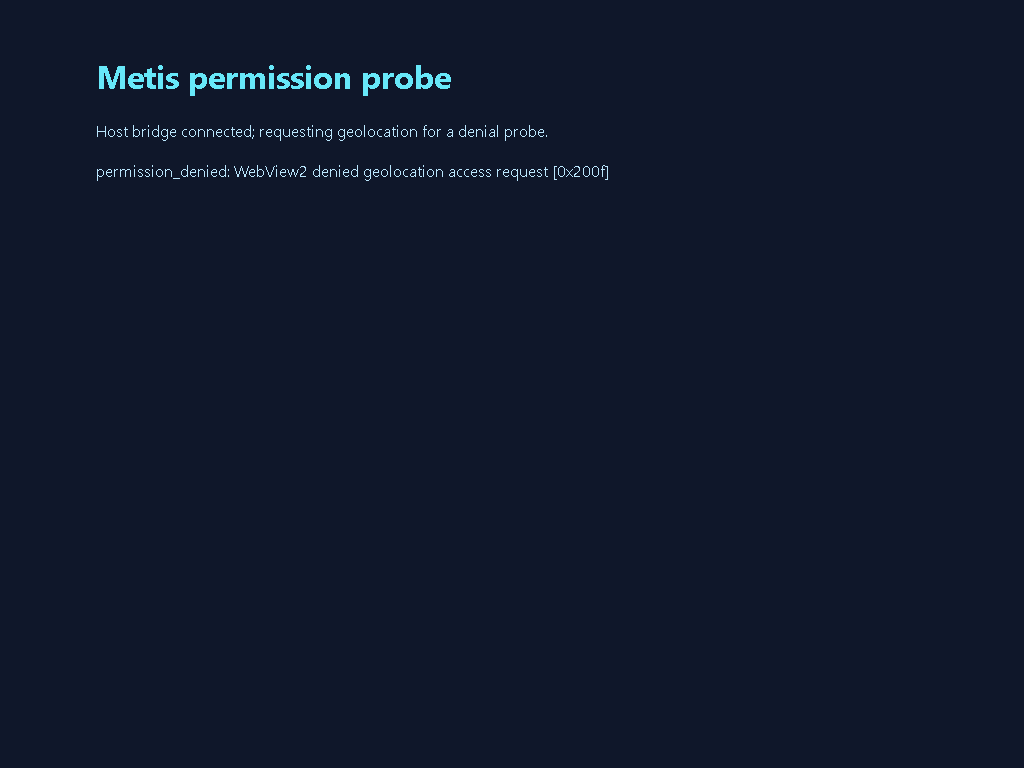
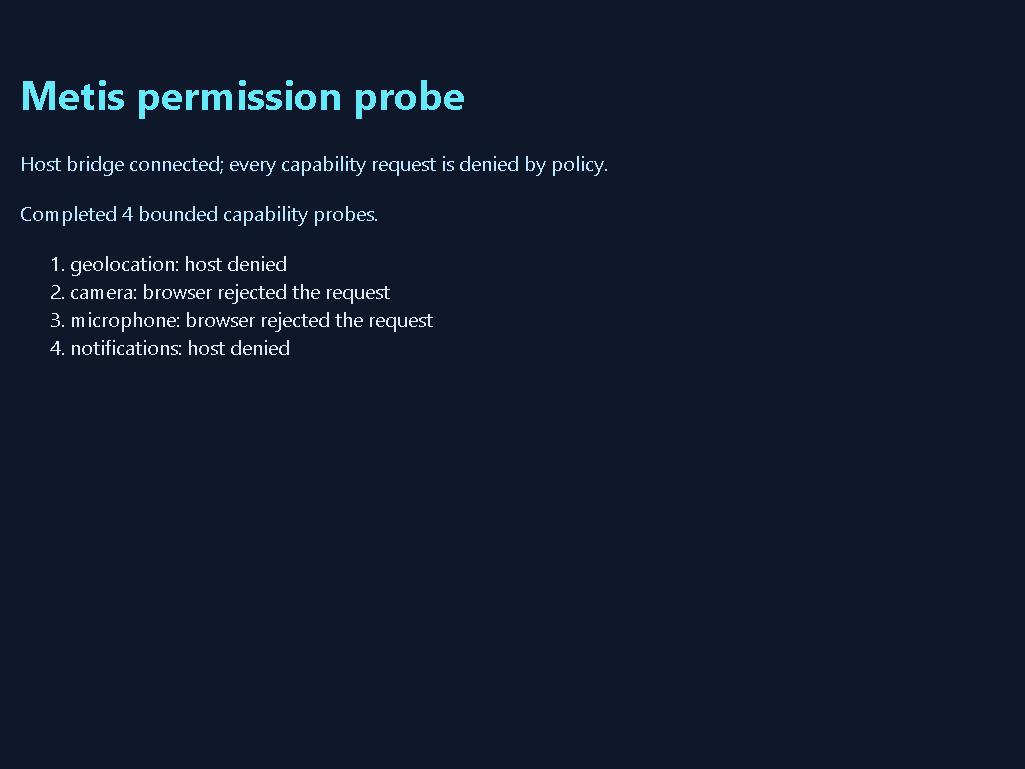
docs(metis): Record permission matrix capture
Bind the settled four-capability WebView2 matrix to the source, runtime and inspected PNG provenance.

Item: METIS-DESKTOP-001

Refs: backlog.md#METIS-DESKTOP-001

Changed region(s): [[0.0, 0.0625, 0.5938, 0.4688]]

diff --git a/backlog.md b/backlog.md
@@ -187,7 +187,7 @@ an owner. “Unsupported” cannot replace delivery of a required mobile/native 
 <a id="METIS-DESKTOP-001"></a>
 ## METIS-DESKTOP-001 — Native restricted desktop [arch] [major]
 - Status: in-progress; priority: P1; owner: Metis Windows host + Moirai; integrator: root; last-update: 2026-09-22; ADR: [0032](docs/adr/0032-display-scale.md); dependencies: METIS-AUTHORITY-001, METIS-COMMANDS-001; risk: trust boundary
-- lease: root — crates/metis-app/src/frontend/webview.rs, scripts/tests, docs/manual/native.md, docs/manual/images/native-captures.json and native-permission-probe.png — 2026-09-22T03:00:00-04:00
[1 lines of base64/hex data omitted]
 - Current increment (2026-09-18): `scripts/python_native_input_capture.py` launches a production native executable, captures before/after frames, focuses the returned HWND, sends bounded UTF-16 through Win32 `SendInput`, records input/layout/geometry digests and fails closed when foreground activation is denied. Focused tests cover text bounds, UTF-16 surrogate pairs, output separation and the 64-bit `INPUT` ABI; the current automation desktop returned foreground denial, so no visual input claim was recorded. Installed IME, screen-reader traversal and physical DPI transitions remain host evidence.
 - Delivery reconciliation (2026-09-15): Metis PR [#164](https://github.com/ryancinsight/metis/pull/164), merge `28a7c69da5991d5cd7cbf4bcdce40f826ed77e53`, merged the Windows WebView2 provider feature and its refreshed visual provenance. The former feature branch is collected; broader OS permission enforcement, visible permission-probe capture, installed-IME, physical display-scale and non-Windows host gaps remain open.
 - Scope: Windows native window/system WebView, real events, multi-window lifecycle and OS-restricted renderer; macOS/Linux have separate items below.
@@ -198,7 +198,7 @@ an owner. “Unsupported” cannot replace delivery of a required mobile/native 
 - Current increment: `metis-platform::native::WebViewSurface` consumes the merged provider through a safe adapter. It sizes the controller, maps validated visibility, forwards combined window/WebView events and preserves bounded navigation and JSON messaging. Metis uses git-plus-version Moirai requirements; the current standalone Cargo.lock records provider revision `d7b38d7c79dfd39096adeda0f5c0845064d7a8c6`, which includes the AccessKit bridge, the UI Automation value-action mapping and WebView2 0.39.1 bindings. Configuration and ignored installed-runtime adapter tests pass on WebView2 `152.0.4191.66`, covering packaged navigation, the ready bridge message, external-navigation denial and close. The visible bundle journey is captured in [`docs/manual/images/native-captures.json`](docs/manual/images/native-captures.json).
 - Provider feature increment (2026-09-15): Moirai PR #355 merged at `d95a2cd61b1f133a507d2735f5f72948a4ca5ec9` with WebView2 COM bindings opt-in. Metis's Windows `metis-platform` dependency now enables `moirai-pal`'s `webview2` feature, and the standalone lock advances all eleven Moirai packages to that revision; default non-Windows resolution remains free of the optional host graph.
 - Current increment: `metis-app --metis-webview` now runs the same one-executable supervised process workflow through a visible WebView2 form. A bounded temporary HTML/CSS package uses a no-network CSP and typed JSON bridge; submit messages traverse the unprivileged frontend's private pipe and return the capability-authorized, audited result to the page. Revision `0c8bcc3` admits only the operating-system path allowlist required by WebView2 while keeping application variables and credentials isolated. Native and WebView2 initial/submit captures, trusted Enter/pointer actions and exact hashes are documented in the [native manual](docs/manual/native.md#captured-windows-workflows); provider-side permission denial is now covered by a typed event and page error, while broader OS enforcement, visible permission-probe, physical display-scale, screen-reader traversal and installed-IME evidence remain open.
-- Permission matrix increment (2026-09-22): the separate permission-probe page now makes bounded sequential requests for geolocation, camera, microphone and notifications. It renders one row per capability, preserves the provider's typed `permission_denied` payload including `user_initiated`, and distinguishes host denial from browser rejection or an unavailable API. Static asset and serialization tests pass; the prior geolocation-only PNG remains historical until a Windows visual rerun. File/network/process denial, physical display-scale, screen-reader traversal and installed-IME evidence remain open.
+- Permission matrix increment (2026-09-22): the separate permission-probe page makes bounded sequential requests for geolocation, camera, microphone and notifications. It renders one row per capability, preserves the provider's typed `permission_denied` payload including `user_initiated`, and distinguishes host denial from browser rejection or an unavailable API. The capture role waits for the typed completion message and now records the four-row matrix in a 1025×769 CapturePreview; file/network/process denial, physical display-scale, screen-reader traversal and installed-IME evidence remain open.
 - Theme increment (2026-09-20): the packaged WebView2 form now uses the same four bounded presentation modes as the browser workbench (`system`, `light`, `dark` and `high-contrast`). A page-local selector changes only CSS variables and the document theme attribute; it cannot reach the bridge or change backend authority. Static asset tests assert every option, palette selector and fail-closed guard. The bounded `--metis-webview-theme-capture` role produced inspected `CapturePreview` PNGs for all four modes at 1025×769; the hashes and manual links are recorded in [`native.md`](docs/manual/native.md#packaged-webview2-window). Visible palette evidence is delivered; screen-reader, installed-IME, physical display-scale and broader OS-enforcement evidence remain open.
 - Permission event increment (2026-09-17): Moirai PR #392 merged at `64d5cdc1465542748d2261663284c9c357850541` and PR #394 merged at `b94f3ed7a0faa436ebe993dbfec49726cef853fa`; the provider denies WebView2 requests synchronously and emits typed `PermissionDenied` values, while Metis maps them to `permission_denied` with `ErrorCode::PermissionDenied`. The ignored geolocation smoke and frontend serialization test pass; the focused consumer gate passes 84/84 with strict Clippy. Broader OS enforcement and a visible permission-probe capture remain open.
 - Delivery reconciliation (2026-09-17): Metis PR [#209](https://github.com/ryancinsight/metis/pull/209), merge `2358e3003ab625a058be042b6e0f6d562bab7ac9`, passed hosted Windows run [35229379702](https://github.com/ryancinsight/metis/actions/runs/35229379702). The provider-denial increment is delivered; the implementation branch is collected. Broader OS enforcement, a visible permission-probe capture, physical display-scale, native accessibility, installed IME and non-Windows host evidence remain open.

diff --git a/docs/manual/native.md b/docs/manual/native.md
@@ -636,19 +636,16 @@ the desktop compositor:
 cargo run --locked -p metis-app -- --metis-webview-permission-probe-capture C:\captures\metis-permission-probe.png 60 2 0.2
 ```
 
-The output path is an absolute `.png` path. The capture is written once after
-the first bounded event batch; close the window or press **Escape** to finish
-the supervised session. The committed visual run predates the four-capability
-matrix. It used Metis revision
-`285322892aca245faf3962d57838682dd6689d77`, Moirai revision
-`d324018efa3b67d2b92350a4e3c781d179019014`, WebView2 runtime
-`153.0.4234.32`, and a 1024×768 client area. It produced 6,561 bytes with
-SHA-256
[1 lines of base64/hex data omitted]
-`permission_denied: WebView2 denied geolocation access request [0x200f]`.
-That image is a historical geolocation-only visual artifact; it does not claim
-the four-row matrix. A Windows visual rerun of the command above is required
-to add the matrix capture and its revision-bound digest:
+The output path is an absolute `.png` path. The host waits for the page's typed
+`permission_probe_complete` message after all four bounded requests settle,
+writes the WebView2-owned preview, and closes the supervised session. The
+current visual run uses Metis revision `543edfb533be0c0422c38445174001b616c96ace`, Moirai revision
+`0e2e1bbb2d81e16dd9c694ba46a9e9710e034417`, WebView2 runtime
+`153.0.4234.48`, and a 1025×769 CapturePreview image. It produced 9,265 bytes
+with SHA-256
[1 lines of base64/hex data omitted]
+the completed four-row matrix: geolocation and notifications are host-denied,
+while camera and microphone are browser-rejected on this Windows host.
 
 ![Metis WebView2 permission denial probe](images/native-permission-probe.png)
 
@@ -798,7 +795,7 @@ mapping for fractional display scales is covered by deterministic component
 tests, while a physical monitor transition, broader OS permission enforcement,
 native accessibility, an installed CJK or other IME journey, macOS/Linux
 providers, two-window captures and the viewer host remain V05 and migration
-work. WebView2 provider denial and a visible permission-probe capture are
+work. WebView2 provider denial and the four-row permission-probe capture are
 covered; broader Windows sandbox enforcement remains open. Do not treat a
 successful Windows build or a hidden-window test as cross-platform,
 assistive-technology or broad OS-permission evidence.

diff --git a/docs/VERIFICATION.md b/docs/VERIFICATION.md
@@ -320,15 +320,16 @@ sandbox enforcement; those remain V05 host evidence.
 
 The permission-probe capture role routes the packaged page through the same
 supervised private pipe and asks the WebView2 provider for its bounded
-`CapturePreview` PNG. This keeps the visual evidence tied to renderer pixels
-when GDI cannot see a hardware-composed or occluded child surface. Metis
-revision `285322892aca245faf3962d57838682dd6689d77` with Moirai revision
-`d324018efa3b67d2b92350a4e3c781d179019014` produced a 1024×768 PNG on
-`x86_64-pc-windows-msvc` with WebView2 `153.0.4234.32`; the file is 6,561
+`CapturePreview` PNG. The host waits for the page's typed
+`permission_probe_complete` message after all four requests settle, so the
+image is a complete matrix rather than a first-event snapshot. Metis revision
+`543edfb533be0c0422c38445174001b616c96ace` with Moirai revision
+`0e2e1bbb2d81e16dd9c694ba46a9e9710e034417` produced a 1025×769 PNG on
+`x86_64-pc-windows-msvc` with WebView2 `153.0.4234.48`; the file is 9,265
 bytes, SHA-256
[1 lines of base64/hex data omitted]
-contains `permission_denied: WebView2 denied geolocation access request
-[0x200f]`. The command and full provenance are recorded in
[1 lines of base64/hex data omitted]
+shows geolocation and notifications host-denied plus browser rejection for
+camera and microphone. The command and full provenance are recorded in
 [`manual/images/native-captures.json`](manual/images/native-captures.json). The
 image proves the rendered page and message translation only. It does not prove
 revocation of another profile's grant or broader OS sandbox enforcement.
